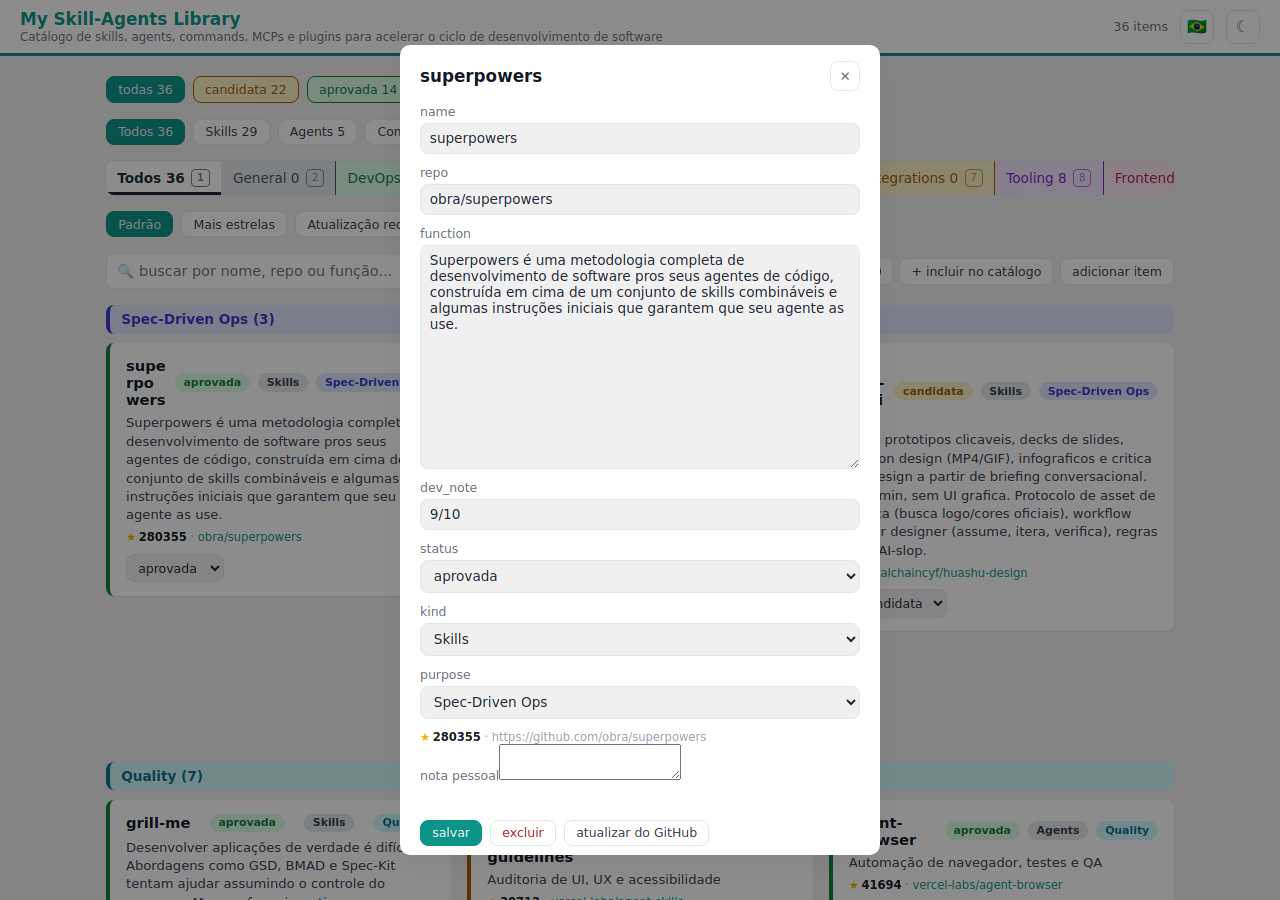
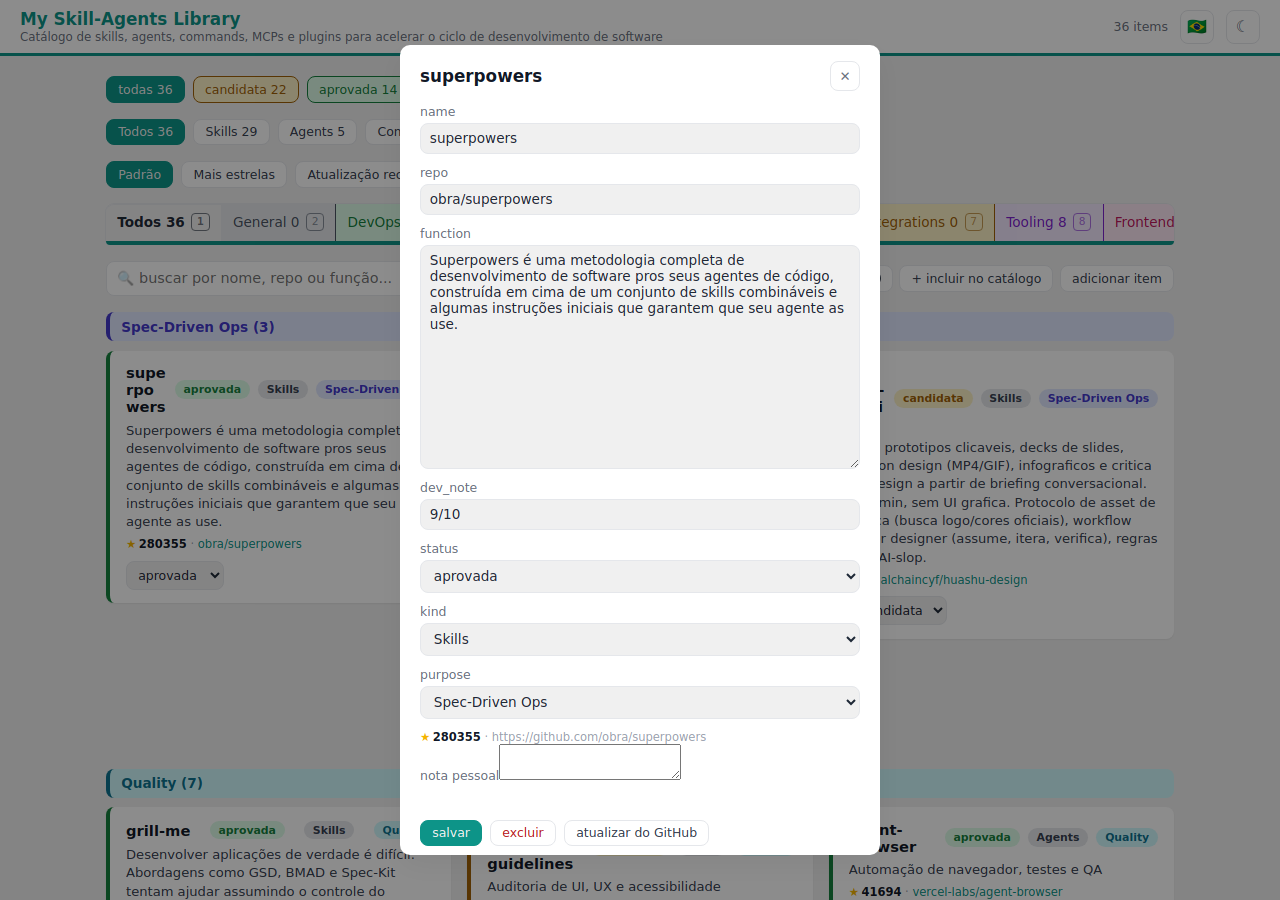
feat: folder-style purpose tabs, sort pills moved above them
- sort pills (Padrão/Mais estrelas/Atualização recente/Nome) now render
  above the purpose tab bar instead of below it
- purpose tabs redrawn as folder tabs: the active tab drops its bottom
  border and merges into the page background, with a colored strip
  (that purpose's own color, or the accent for "Todos") running full
  width right under it, like the spine of a hanging folder
- refreshed README + CODEBASE_MAP + screenshots to match

Claude-Session: https://claude.ai/code/session_015HJhdv2NVHp8ftTBC2Pkqs

diff --git a/src/generator.py b/src/generator.py
@@ -681,7 +681,14 @@ function purposeTabTarget(key) {
   return idx === 0 ? null : PURPOSES[idx - 1];
 }
 
+// Folder-tab look: the active tab drops its bottom edge and a colored strip
+// (the active purpose's own color, or the accent for "Todos") runs the full
+// width right under the tab row, like the spine of a hanging folder —
+// visually the tab "opens" straight into the page below it.
 function renderPurposeFilter() {
+  const wrap = document.createElement("div");
+  wrap.className = "purpose-tab-wrap";
+
   const tabs = document.createElement("div");
   tabs.className = "purpose-tabs";
   [null].concat(PURPOSES).forEach((p, i) => {
@@ -705,7 +712,14 @@ function renderPurposeFilter() {
 
     tabs.appendChild(btn);
   });
-  return tabs;
+  wrap.appendChild(tabs);
+
+  const accent = document.createElement("div");
+  accent.className = "purpose-tab-accent";
+  accent.style.background = filterPurpose ? "var(--c-" + filterPurpose + "-fg)" : "var(--accent)";
+  wrap.appendChild(accent);
+
+  return wrap;
 }
 
 function renderSortFilter() {
@@ -800,8 +814,8 @@ function render() {
 
   container.appendChild(renderFilters());
   container.appendChild(renderKindFilter());
-  container.appendChild(renderPurposeFilter());
   container.appendChild(renderSortFilter());
+  container.appendChild(renderPurposeFilter());
   container.appendChild(renderSearchBox());
   const ghResultsEl = renderGithubResults();
   if (ghResultsEl) container.appendChild(ghResultsEl);
@@ -1543,33 +1557,42 @@ button.pill-purpose-frontend     { background: var(--c-frontend-bg);     color: 
 button.pill-purpose-other        { background: var(--c-other-bg);        color: var(--c-other-fg);        border-color: var(--c-other-fg); }
 button.pill-purpose-general.btn-primary, button.pill-purpose-devops.btn-primary, button.pill-purpose-spec-ops.btn-primary,
 button.pill-purpose-quality.btn-primary, button.pill-purpose-security.btn-primary, button.pill-purpose-integrations.btn-primary,
-button.pill-purpose-tooling.btn-primary, button.pill-purpose-frontend.btn-primary, button.pill-purpose-other.btn-primary,
-button.pill-purpose-general.active, button.pill-purpose-devops.active, button.pill-purpose-spec-ops.active,
-button.pill-purpose-quality.active, button.pill-purpose-security.active, button.pill-purpose-integrations.active,
-button.pill-purpose-tooling.active, button.pill-purpose-frontend.active, button.pill-purpose-other.active {
+button.pill-purpose-tooling.btn-primary, button.pill-purpose-frontend.btn-primary, button.pill-purpose-other.btn-primary {
   box-shadow: inset 0 0 0 2px currentColor;
 }
 
-/* ---- Aba de purpose: linha única, abas distribuídas lado a lado em vez
-   da linha de pills (mesmas cores por purpose de antes) ---- */
+/* ---- Aba de purpose, estilo pasta/ficheiro: a aba ativa perde a borda
+   inferior e "abre" pra baixo; uma tira colorida (cor da própria aba, ou o
+   accent no "Todos") corre a largura toda logo abaixo, como a lombada de
+   uma pasta suspensa — dá a impressão de a aba ativa continuar na página. */
+.purpose-tab-wrap { margin-bottom: 1rem; }
 .purpose-tabs {
-  display: flex; margin-bottom: 1rem; border-radius: 8px;
+  display: flex; border-radius: 8px 8px 0 0;
   box-shadow: 0 0 0 1px var(--border);
   overflow-x: auto; overflow-y: hidden;
 }
 .purpose-tab {
   flex: 1 0 auto;
   display: flex; align-items: center; justify-content: center; gap: .4rem;
-  padding: .5rem .7rem;
+  padding: .6rem .7rem;
   border: none; border-right: 1px solid var(--border);
   background: var(--surface); color: var(--fg);
   font: inherit; font-size: .85rem; cursor: pointer; white-space: nowrap;
+  position: relative;
 }
-.purpose-tab:last-child { border-right: none; }
-.purpose-tab.active { font-weight: 600; box-shadow: inset 0 -3px 0 0 currentColor; }
+.purpose-tab:first-child { border-radius: 8px 0 0 0; }
+.purpose-tab:last-child { border-right: none; border-radius: 0 8px 0 0; }
+.purpose-tab.active {
+  font-weight: 600; background: var(--bg);
+  box-shadow: inset 0 1px 0 0 var(--border);
+}
 .tab-shortcut {
   font-size: .7rem; opacity: .6; border: 1px solid currentColor; border-radius: 4px;
   padding: 0 .3rem; line-height: 1.4;
+}
+.purpose-tab-accent {
+  height: 4px; border-radius: 0 0 6px 6px;
+  transition: background-color .15s ease;
 }
 
 /* ---- Pills de filtro por status, mesma cor do badge/borda do card ---- */

diff --git a/docs/CODEBASE_MAP.md b/docs/CODEBASE_MAP.md
@@ -157,7 +157,7 @@ tests/
 - `call(action, body)` POSTs to `/skill-library/api`; on failure throws an `Error` carrying `.code`/`.status` from the JSON error body.
 - `reload()` re-fetches the full list and re-renders client-side after every write — this is what hides the static page's regeneration latency from the user.
 - `renderSearchBox()` builds the local search input (filters `items` by name/repo/function substring, combined with the status/kind/purpose filters, purely client-side) plus a GitHub-mark button, a "+ incluir no catálogo" button that opens the add-item modal prefilled with the search text, and a plain "adicionar item" button that opens the same modal empty. Rendered below the status/kind/purpose/sort filters, not above them.
-- `renderFilters()` (status) and `renderPurposeFilter()` both color each pill/tab to match that value's card badge — `renderPillRow(className, allLabel, options, labelFn, active, onPick, countFn, colorClassFn)` is the shared pill-list builder (`colorClassFn` is optional, used by status → `"badge-"+s"` and previously by purpose). `renderPurposeFilter()` no longer calls `renderPillRow`: it builds its own `.purpose-tabs`/`.purpose-tab` row (one full-width tab bar instead of a wrapping pill line, same `pill-purpose-*` color classes), each tab carrying a `<kbd class="tab-shortcut">` hint from `PURPOSE_TAB_KEYS` (`"1"` = Todos, `"2"..."9"` = each `PURPOSES` entry in order — `purposeTabTarget(key)` maps a key back to the purpose). A `document`-level `keydown` handler drives the same jump: any digit in `PURPOSE_TAB_KEYS`, outside an `INPUT`/`TEXTAREA`/`SELECT` and while no modal is open, sets `filterPurpose` and re-renders. `filterPurpose` still defaults to `null` ("Todos"), unchanged.
+- `renderFilters()` (status) and `renderPurposeFilter()` both color each pill/tab to match that value's card badge — `renderPillRow(className, allLabel, options, labelFn, active, onPick, countFn, colorClassFn)` is the shared pill-list builder (`colorClassFn` is optional, used by status → `"badge-"+s"` and previously by purpose). `renderPurposeFilter()` no longer calls `renderPillRow`: it returns a `.purpose-tab-wrap` containing the `.purpose-tabs`/`.purpose-tab` row (one full-width tab bar instead of a wrapping pill line, same `pill-purpose-*` color classes) plus a `.purpose-tab-accent` strip — a folder-tab effect: the active tab drops its bottom border (`.purpose-tab.active` backgrounds to `--bg`, merging into the page) and the accent strip below is set inline (`accent.style.background`) to that purpose's own `--c-<purpose>-fg` var, or `--accent` for "Todos" (`filterPurpose` null). Each tab carries a `<kbd class="tab-shortcut">` hint from `PURPOSE_TAB_KEYS` (`"1"` = Todos, `"2"..."9"` = each `PURPOSES` entry in order — `purposeTabTarget(key)` maps a key back to the purpose). A `document`-level `keydown` handler drives the same jump: any digit in `PURPOSE_TAB_KEYS`, outside an `INPUT`/`TEXTAREA`/`SELECT` and while no modal is open, sets `filterPurpose` and re-renders. `filterPurpose` still defaults to `null` ("Todos"), unchanged. Render order in `render()`: status pills, kind pills, sort pills, then the purpose tab bar, then the search box.
 - `renderAddModal()` / `openAddModal(prefillName)` / `closeAddModal()`: the add-item form (`EDITABLE` fields) now lives in a modal overlay (`addModalOpen` state), not a permanently-rendered card — same overlay/close pattern as `renderModal(item)`, closable via the "✕" button, a click on the overlay backdrop, or Escape.
 - `searchGithub()` does a direct, unauthenticated `fetch` to `api.github.com/search/repositories` from the browser — bypasses `api.py` entirely, so it's the one place besides `refresh_repo`/`enrich.py` that talks to GitHub, but from the client rather than the server (keeps the offline-first backend contract intact). Subject to GitHub's ~10 req/min unauthenticated rate limit.
 - `renderGithubResults()` / `renderGithubResultsHeader()` render the loading/error/empty/populated states of the GitHub search panel (name, description, ★ stars, link, a per-result "+ incluir" that POSTs `action: "add"` directly, and a "✕" that clears `ghResults`).

diff --git a/README.md b/README.md
@@ -84,6 +84,11 @@ full-width tabs instead of a wrapping line of pills — same per-purpose
 colors, one line, always opening on "Todos". Each tab shows its digit
 shortcut (1 = Todos, 2 through 9 for each purpose in order); pressing that
 key anywhere outside a text field or an open modal jumps straight to it.
+The active tab drops its bottom edge and a colored strip (that purpose's
+own color, or the teal accent for "Todos") runs the full width right under
+it — like the spine of a hanging folder, so the active tab reads as
+opening straight into the page below instead of just another button. Sits
+above the sort pills and the search box.
 
 ### Pulls real GitHub data
 
@@ -148,14 +153,14 @@ persist an explicit choice in `localStorage`.
 
 <picture>
   <source media="(prefers-color-scheme: dark)" srcset="docs/screenshot-dark.png">
-  <img alt="My Skill-Agents Library: status and kind filter pills (status colored to match its cards), a purpose tab bar with per-purpose colors and digit shortcuts, sort pills, a search box below them with GitHub-search and add-item buttons, 36 items in purpose-grouped sections colored by category, and a card grid" src="docs/screenshot-light.png">
+  <img alt="My Skill-Agents Library: status and kind filter pills (status colored to match its cards), sort pills, a folder-style purpose tab bar with per-purpose colors, digit shortcuts and a colored strip under the active tab, a search box below them with GitHub-search and add-item buttons, 36 items in purpose-grouped sections colored by category, and a card grid" src="docs/screenshot-light.png">
 </picture>
 
 The header carries the title, an item count, and the theme toggle. Below it:
-status pills (colored), kind pills, the purpose tab bar (colored, digit
-shortcuts, always starting on "Todos"), sort pills, then the search box
-with its GitHub-search, quick-add and add-item buttons, then one colored
-section per purpose holding that purpose's cards.
+status pills (colored), kind pills, sort pills, the purpose tab bar
+(colored, digit shortcuts, folder-tab styling, always starting on "Todos"),
+then the search box with its GitHub-search, quick-add and add-item
+buttons, then one colored section per purpose holding that purpose's cards.
 
 ---
 
